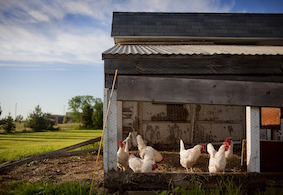
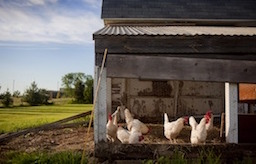
view 4 images instead of the carrousel for medium and above screens

diff --git a/assets/styles/components/_carrousel.scss b/assets/styles/components/_carrousel.scss
@@ -1,22 +1,50 @@
 /* Carousel base class */
-.carousel {
-      height: 300px;
-      /* margin-bottom: 60px; */
 
-    @media #{$mqMediumAndDown} {
-        height: 200px;
-      }
+#myCarousel { // displayed for small and extra small screens
+  display: none;
+  @media #{$mqSmallAndDown} {
+    height: 200px;
+    display: block;
+  }
+}
+#noCarousel {
 
-    @media #{$mqSmallAndDown} {
-        height: 200px;
-      }
+  @media #{$mqSmallAndDown} {
+    display: none;
+  }
 }
 
+.noCarousel { // displayed for medium and above screens
+height: 100%;
+ width: 25%;
+  //width: 100%;
+  margin: 0;
+  padding: 0;
+  float: left;
+  display: block;
+  border-bottom : 1px solid #373737
+}
+
+/* .noCarousel-caption {
+  position: absolute;
+  left: 15%;
+  right: 15%;
+  bottom: 30px;
+  z-index: 10;
+  padding-top: 20px;
+  padding-bottom: 20px;
+  color: #ffffff;
+  text-align: center;
+  text-shadow: 0 1px 2px rgba(0, 0, 0, 0.6);
+} */
+
+.carousel {
+      height: 200px;
+}
 
 /* Since positioning the image, we need to help out the caption */
 .carousel-caption {
       z-index: 10;
-
       @media #{$mqMediumAndUp} {
         /* Bump up size of carousel content */
         p {
@@ -27,22 +55,11 @@
   }
 }
 
-
 /* Declare heights because of positioning of img element */
 .carousel .item {
-    height: 300px;
+    height: 200px;
     background-color: #777;
-
-    @media #{$mqMediumAndDown} {
-        height: 200px;
-    }
-
-
-    @media #{$mqSmallAndDown} {
-        height: 200px;
-    }
 }
-
 
 .carousel-inner > .item > img {
       position: relative;
@@ -51,16 +68,7 @@
       margin : auto;
       min-height: 100%;
       max-width: 100%;
-      height: 300px;
-
-    @media #{$mqMediumAndDown} {
-          height: 200px;
-        }
-
-    @media #{$mqSmallAndDown} {
       height: 200px;
-    }
-
 }
 
 
